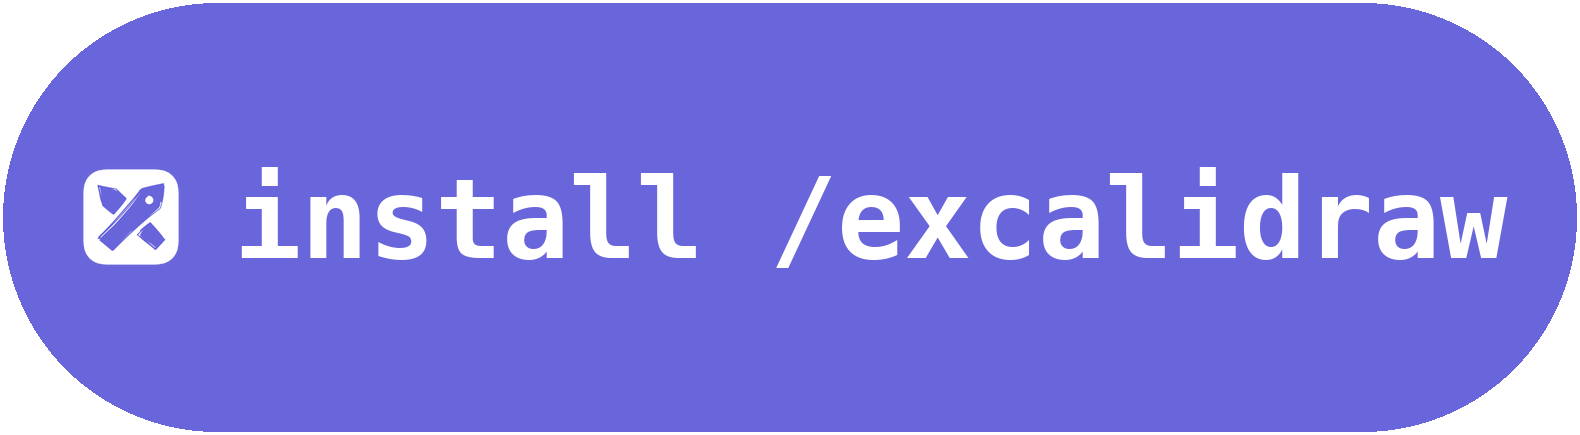
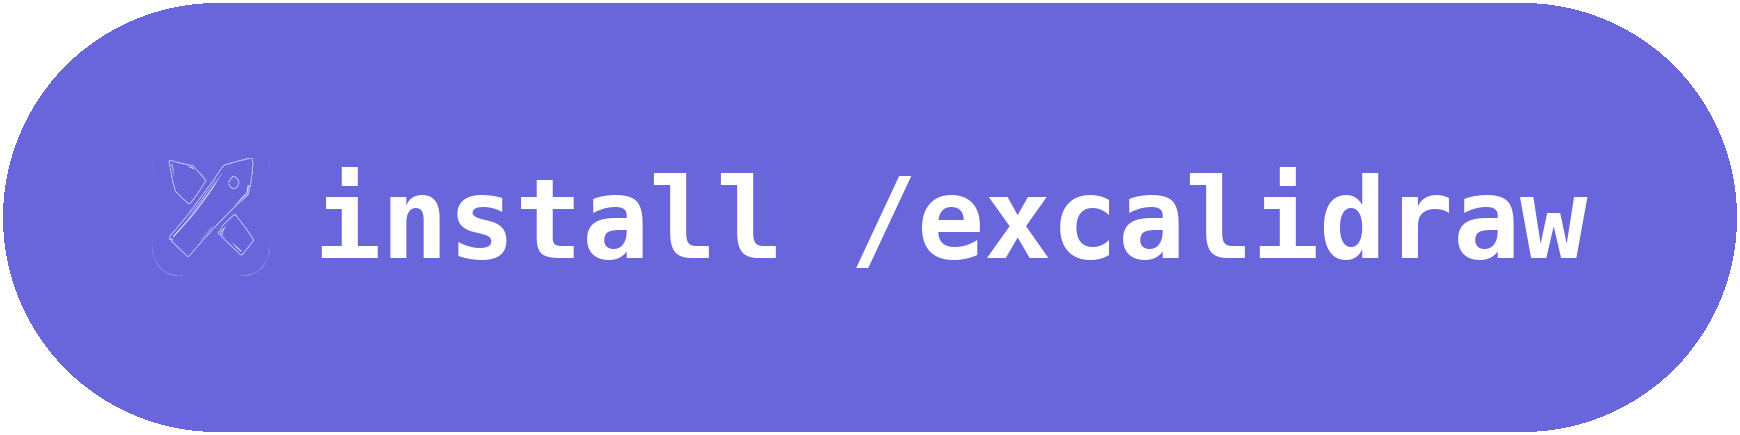
..

diff --git a/README.md b/README.md
@@ -7,7 +7,7 @@
 
 <p align="center">
 <a href="https://res.cloudinary.com/ddyc1es5v/raw/upload/v1782970520/gh-repos/excalidraw-skill/excalidraw.skill" download="excalidraw.skill">
-<img src="https://res.cloudinary.com/ddyc1es5v/image/upload/v1782967418/readme-badges/readme-badge-install.png" alt="install /excalidraw" height="56" />
+<img src="https://res.cloudinary.com/ddyc1es5v/image/upload/v1782971923/readme-badges/readme-badge-install.png" alt="install /excalidraw" height="56" />
 </a>
 </p>
 
@@ -54,14 +54,15 @@
 
 <p align="center">
 <a href="https://res.cloudinary.com/ddyc1es5v/raw/upload/v1782970520/gh-repos/excalidraw-skill/excalidraw.skill" download="excalidraw.skill">
-<img src="https://res.cloudinary.com/ddyc1es5v/image/upload/v1782967418/readme-badges/readme-badge-install.png" alt="install /excalidraw" height="56" />
+<img src="https://res.cloudinary.com/ddyc1es5v/image/upload/v1782971923/readme-badges/readme-badge-install.png" alt="install /excalidraw" height="56" />
 </a>
 </p>
 
 1. click `Install` → `excalidraw.skill`
-2. upload to `claude.ai`
+2. upload to: `claude.ai`, cloud platforms, etc
+3. or `mv 'excalidraw.skill' 'excalidraw.zip'` → unzip locally for: Codex, Cursor, Claude Code, Open Code, etc
 
-(optional) Rebuild from source:
+(optional) from source:
 
 ```bash
 curl -fsSL https://raw.githubusercontent.com/vdutts7/excalidraw-skill/main/install.sh | bash
@@ -79,8 +80,9 @@ curl -fsSL https://raw.githubusercontent.com/vdutts7/excalidraw-skill/main/insta
 1. drag + drop `*.excalidraw` file into → [Excalidraw](https://excalidraw.com) > `Load from file`
 2. check → [`examples/outputs/`](examples/outputs/)
 
-### Agent
+### Usage
 
+User message to agent:
 ```markdown
 /excalidraw draw a 3-tier stack: cdn -> api -> postgres + redis
 ```
@@ -90,6 +92,7 @@ curl -fsSL https://raw.githubusercontent.com/vdutts7/excalidraw-skill/main/insta
 ```bash
 python3 scripts/generate.py examples/plans/pipeline.json \
   --out examples/outputs/pipeline.excalidraw
+
 python3 scripts/generate.py --validate examples/outputs/pipeline.excalidraw
 ```
 